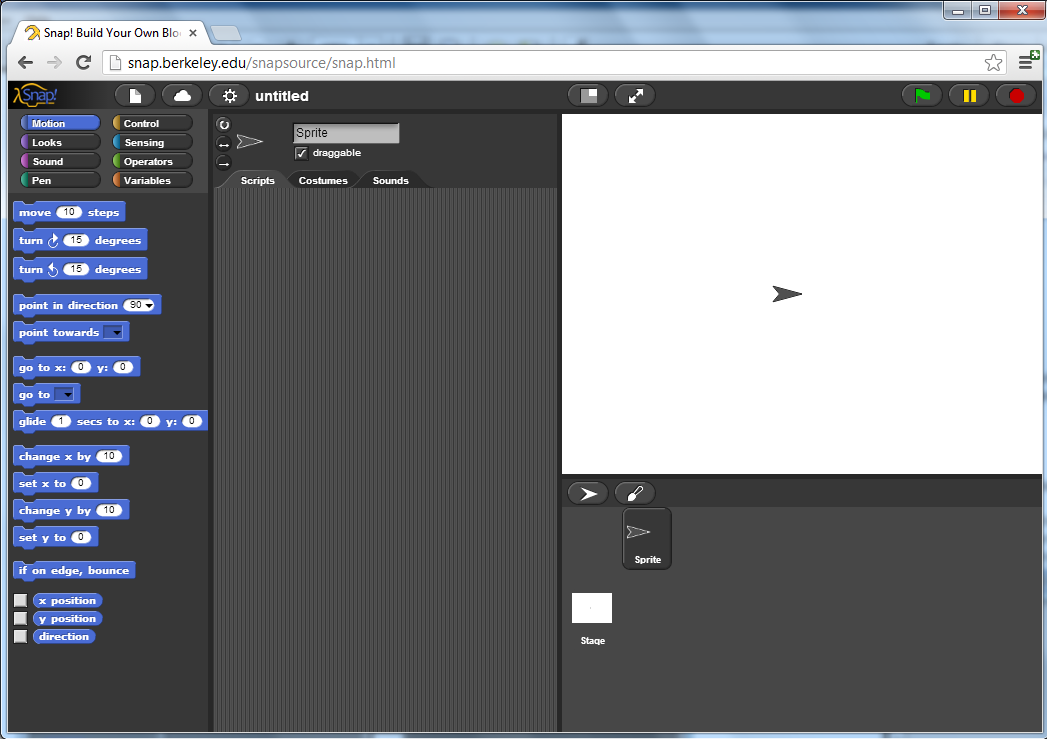
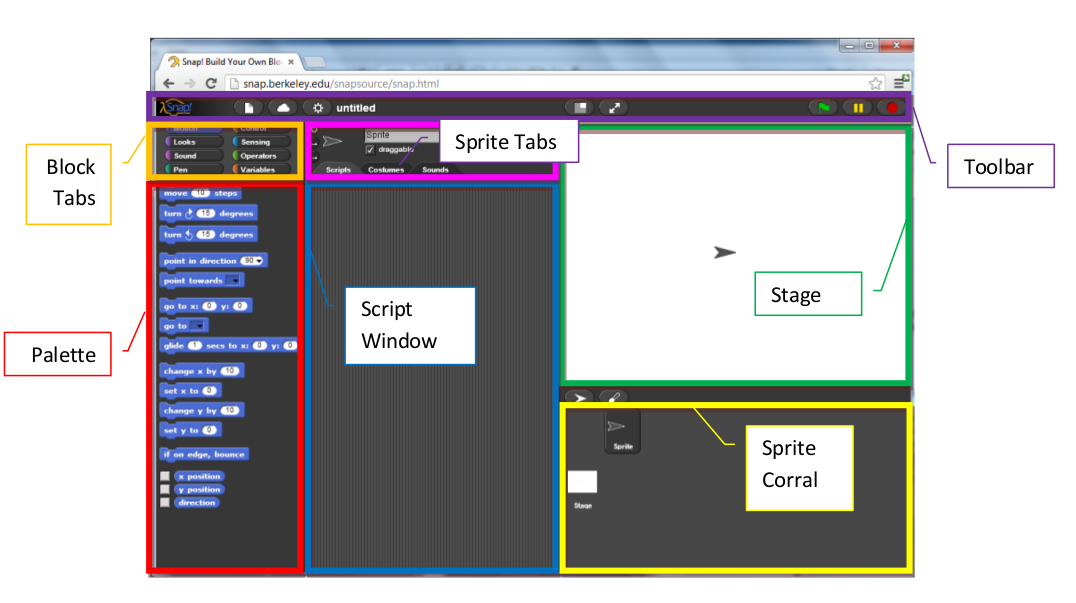
Waffles.

diff --git a/curriculum/01-welcome/labs/02-exploring-visual-programming.md b/curriculum/01-welcome/labs/02-exploring-visual-programming.md
@@ -1,6 +1,6 @@
 ---
 layout: page
-title: Conversion Exercise
+title: Exploring Visual Programming
 unit: 1
 uniturl: 01-welcome
 lab: 2
@@ -9,7 +9,6 @@ laburl: 02-exploring-visual-programming
 
 Lab: Welcome to Visual Programming
 ==================================
-
 Let's open up SNAP at [http://snap.berkeley.edu/run](http://snap.berkeley.edu/run)
 
 You will see a screen like the one shown below. Explore the aspects of the user interface. Play around for a while and see if you can figure out the major components of the interface. In the next step, you will make your first project and explore further.
@@ -22,6 +21,8 @@ Let’s first look at the IDE (Integrated Development Environment).
 
 <img src="lab-ide-3.png" align="right" />
 
+
+
 Make a sprite sing
 ------------------
 For your first project, make a quick song! You will find the following **blocks** in the Sound tab useful; feel free to change the default numbers as you see fit.
@@ -31,9 +32,9 @@ While you are working on it, try to figure out how to connect and disconnect blo
 *Hint*: Try to use many copies of one of the blocks in a row, and hear the result. Do this for each block.
 
 
+
 Meowing: One at a Time or in Unison?
 ------------------------------------
-
 With this brief introduction to the scratch interface, we begin to examine how sprites and blocks
 interact and affect one another. For example, the "play sound" blocks from earlier allow us to control
 when and how many sounds we here. Consider the difference between these two blocks?
@@ -59,9 +60,9 @@ Experiment with these blocks: 1) How about two "play sound (meow)" and then one 
 Explain the difference between 1) and 2). Why did you hear a different amount of meows?
 
 
+
 Some Starting Lingo
 -------------------
-
 
 | Term | Example/Description |
 | ---- | ------------------- |
@@ -77,7 +78,46 @@ Some Starting Lingo
 
 
 
+Experiment with a Short Play
+----------------------------
+Try to make these scripts in SNAP! You will find that the Cat and the Duck have completely separate
+script areas. Click on each character to see their script area. Once you are done, press the green flag to
+start the short play.
+
+Cat’s Script Window
+![Cat's script](lab-script-1.png)
+
+Duck’s Script Window
+![Cat's script](lab-script-2.png)
 
 
+
+A note about style
+------------------
+You will notice that we chose to name the messages that were broadcast so that it would help us keep
+track of what we were doing and what messages we were sending. We recommend that you do this in
+your projects!
+
+
+Hints
+-----
+To choose a new sprite, drag an image file into the Costume area. Click on the paint brush to create a new image of your own.
+
+Try to figure out what the commands (whose images are on the left) and buttons (whose images are on the right) do. These will be helpful to get the characters to face each other.
+
+
+
+Try It! Play
+------------
+Once you have this working, change the sprites, and then change the script of the "play" so that each
+character says at least two additional lines.
+
+
+Exporting Sprites
+-----------------
+By this point, you have probably figured out how to save your projects, but you can also save individual
+Sprites separately. To save (or export) a Sprite, right-click on the sprite and select export this sprite. To
+load (or import) a Sprite, click on the icon with a folder next to New Sprite (circled in yellow in the image
+below) and select the Sprite that you want to add to your project.
 
 

diff --git a/curriculum/01-welcome/index.md b/curriculum/01-welcome/index.md
@@ -1,6 +1,6 @@
 ---
 layout: page
-title: Unit 01 - Welcome to Visual Programming
+title: Welcome to Visual Programming
 unit: 1
 uniturl: 01-welcome
 ---
@@ -13,6 +13,16 @@ Unit 01: Welcome to Visual Programming
 
 Learning Objectives
 -------------------
+ * 1: The student can use computing tools and techniques to create artifacts.
+ * 4: The student can use programming as a creative tool.
+ * 5: The student can describe the combination of abstractions used to represent data.
+ * 6: The student can explain how binary sequences are used to represent digital data.
+ * 7: The student can develop an abstraction.
+ * 9: The student can use models and simulations to raise and answer questions.
+ * 28: The student can analyze how computing affects communication, interaction, and cognition.
+ * 29: The student can connect computing with innovations in other fields.
+ * 30: The student can analyze the beneficial and harmful effects of computing.
+ * 31: The student can connect computing within economic, social, and cultural contexts.
 
 
 
@@ -29,5 +39,6 @@ Readings/Lectures
 Labs/Exercises
 --------------
  * Lab 1: [Conversion Exercise]({{ site.baseurl }}curriculum/01-welcome/labs/01-conversion)
-
+ * Lab 2: [Welcome to Visual Programming]({{ site.baseurl }}curriculum/01-welcome/labs/02-exploring-visual-programming)
+ * Lab 3: [Lights, Camera, Action]({{}})
 

diff --git a/curriculum/01-welcome/labs/03-lights-camera-action.md b/curriculum/01-welcome/labs/03-lights-camera-action.md
@@ -1,0 +1,21 @@
+---
+layout: page
+title: Lights, Camera, Action
+unit: 1
+uniturl: 01-welcome
+lab: 3
+laburl: 03-lights-camera-action
+---
+
+Lights, Camera, Action
+======================
+In this activity, you will create a movie or a play.
+
+In general, your movie should have at least:
+ * One block that we did not use during lab. (Explore your blocks)
+ * Two characters not previously used.
+ * Ten (10) total broadcasts of messages. This can be five each, or six/four, etc.
+ * Add sounds (Sound Tab)
+
+The activity is open to your creativity -- tell a story, create characters, experiment with moving sprites around stage
+
